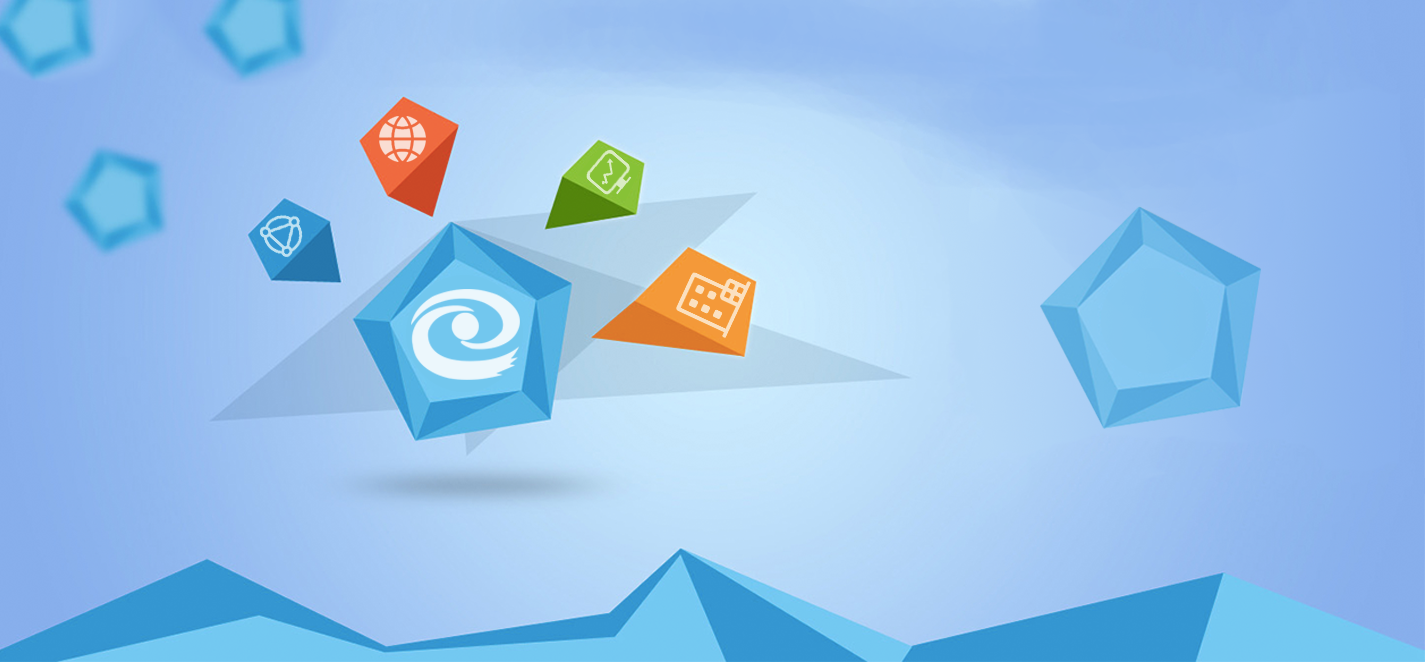
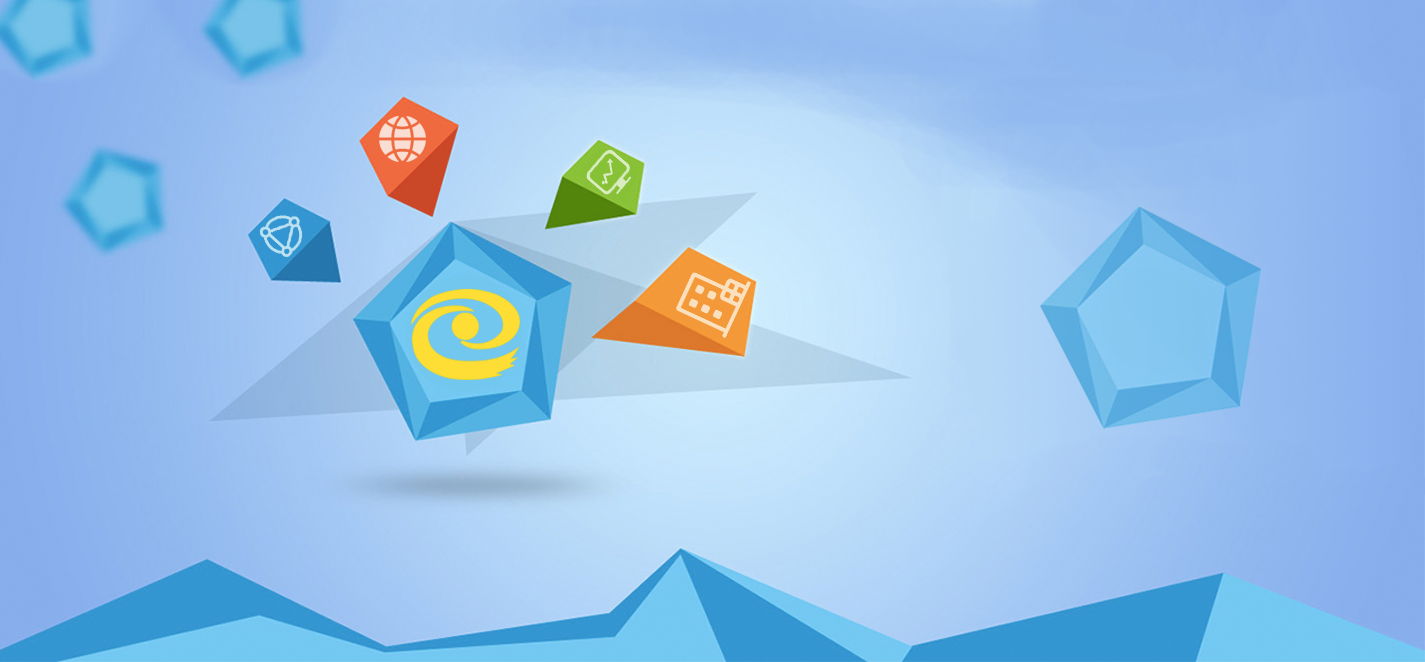
logo修改

Changed region(s): [[0.2779, 0.423, 0.3705, 0.574]]

diff --git a/application/views/head.html b/application/views/head.html
@@ -38,7 +38,7 @@
     <style type="text/css">
     	.dropdown-menu.extended li a span{ margin-right: 5px; margin-left: 5px;}
     	.fa-bars:before{ content: url(../../img/logo.png);}
-    	.sidebar-toggle-box{ padding-right: 10px; margin-top: 10px;}
+    	.sidebar-toggle-box{ padding-right: 10px; margin-top: 12px;}
     </style>
 </head>
 
